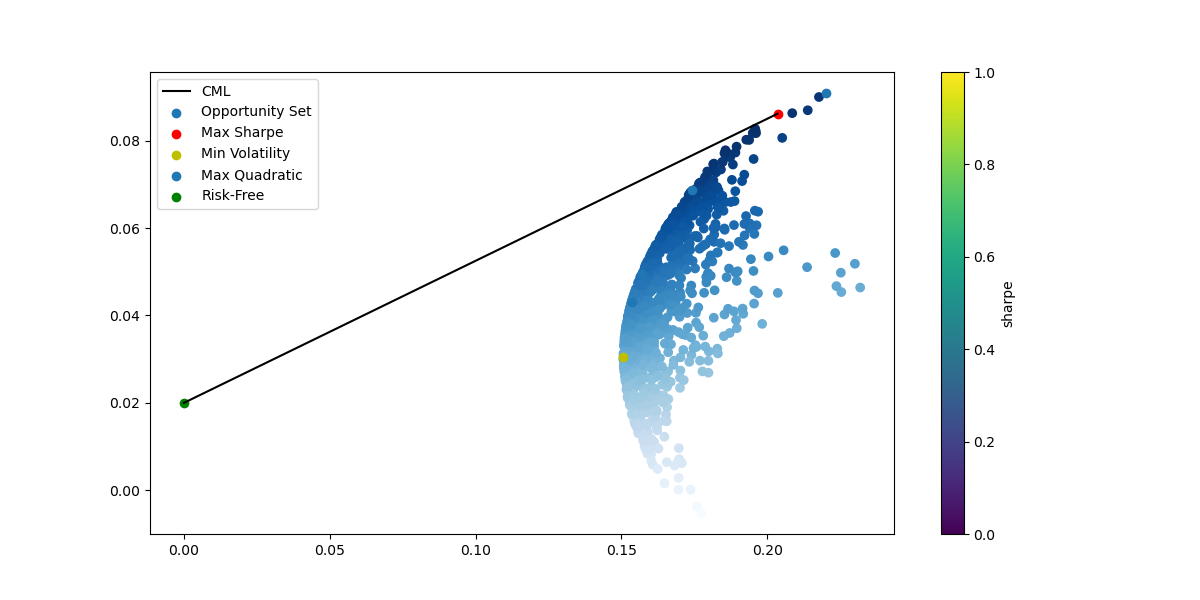
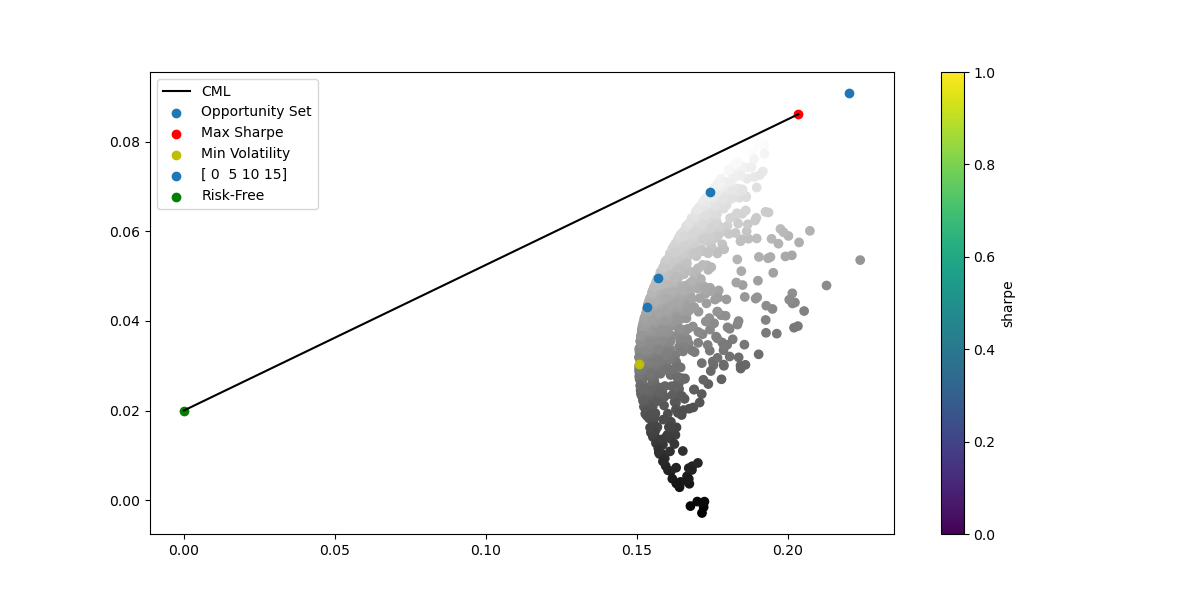
add figure

diff --git a/efficient_frontier.py b/efficient_frontier.py
@@ -153,6 +153,7 @@ class EfficientFrontier:
 if __name__ == '__main__':
     random.seed(0)
     rf = 0.02
+    gamma_ls = np.arange(0, 20, 5)
     ret_df = pd.concat([fdr.DataReader('KS11')['Change'],
                        fdr.DataReader('SSEC')['Change'],
                        fdr.DataReader('UK100')['Change']], 1).dropna()
@@ -176,17 +177,18 @@ if __name__ == '__main__':
     max_quadratic_port_ls = []
 
     # Calculate portfolio with variety gamma, which represent each investor's magitude of risk aversion
-    for gamma in np.arange(0, 20, 5):
+    for gamma in gamma_ls:
         max_quadratic_port_ret, max_quadratic_port_vol = ef.get_port_summary(ef.max_quadratic_util(mean, cov, gamma), mean, cov)
         max_quadratic_port_ls.append((max_quadratic_port_ret, max_quadratic_port_vol))
-    max_quadratic_port = pd.DataFrame(max_quadratic_port_ls)
+
+    max_quadratic_port = pd.DataFrame(max_quadratic_port_ls, index=gamma_ls)
 
     # plotting session
     plt.figure(figsize=(12, 6))
-    plt.scatter(mean_vol_df[1], mean_vol_df[0], c=(mean_vol_df[0] / mean_vol_df[1]), cmap='Blues', label='Opportunity Set')
+    plt.scatter(mean_vol_df[1], mean_vol_df[0], c=(mean_vol_df[0] / mean_vol_df[1]), cmap='gray', label='Opportunity Set')
     plt.scatter(max_sharpe_port_std, max_sharpe_port_ret, marker='o', color='r', label='Max Sharpe')
     plt.scatter(min_vol_port_std, min_vol_port_ret, marker='o', color='y', label='Min Volatility')
-    plt.scatter(max_quadratic_port[1], max_quadratic_port[0], label='Max Quadratic')
+    plt.scatter(max_quadratic_port[1], max_quadratic_port[0], label=gamma_ls)
     plt.plot([0, max_sharpe_port_std], [rf, max_sharpe_port_ret], color='k', label='CML')
 
     plt.scatter(0, rf, marker='o', color='g', label='Risk-Free')
